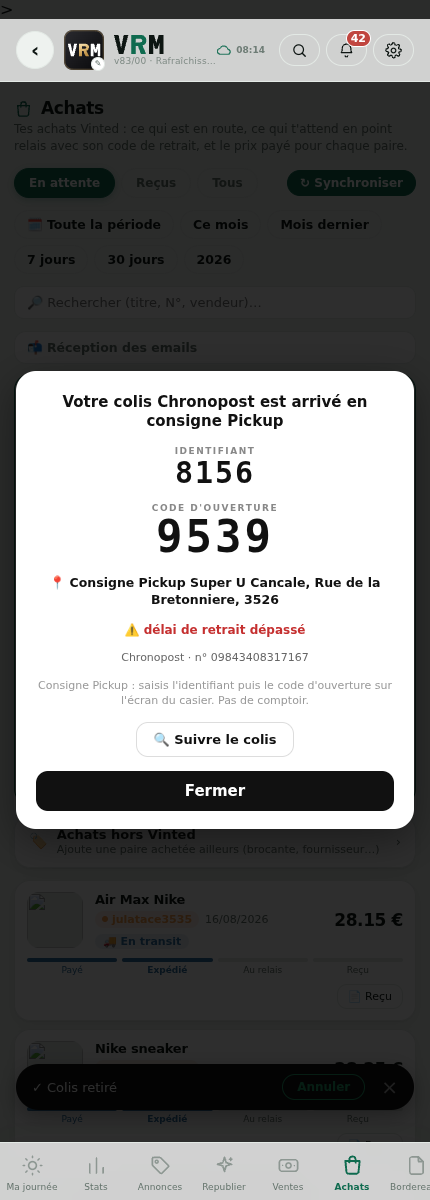
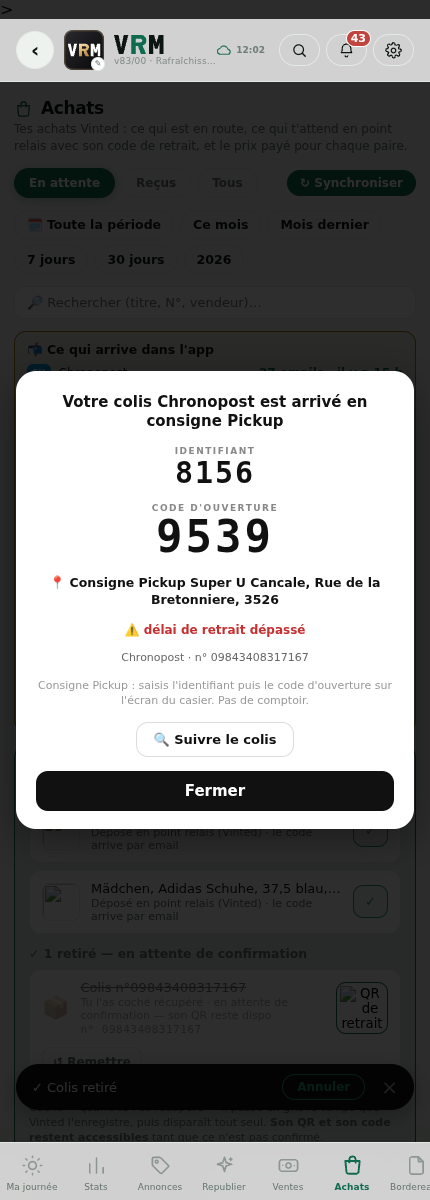
Reception : par transporteur ET par compte + saisie en serie des prix d'achat (#47)
CODES 9195 / 6121 — cherches dans les 109 lignes de suivi, les 444 emails
encore en quarantaine (recherche brute dans le JSON entier) et les 26 emails
non compris : ABSENTS. Ces emails ne sont jamais arrives jusqu'a l'app.

Cause nommee : en croisant les 8 comptes Vinted avec les emails recus, DEUX
comptes n'en recoivent AUCUN — tomj606 et angeled92 — alors qu'angeled92 a 4
annonces en ligne et 91 € en attente. Ses codes de retrait ne peuvent donc pas
etre dans l'app.

- Panneau « Ce qui arrive dans l'app » (onglet Achats, ouvert par defaut) :
  une ligne par transporteur avec Chronopost / Mondial Relay / Vinted Go
  TOUJOURS affiches meme a zero (nb de colis a retirer + dernier email), une
  ligne par compte Vinted avec ses emails, et en rouge ceux qui ne recoivent
  rien. Plus le compte des emails non classes.
- Saisie en serie des prix d'achat : 0 prix sur 210 paires, donc le benefice
  tourne avec un cout de zero sur 231 ventes et 6717 € de CA. Une liste, un
  champ par ligne, Entree passe a la suivante (ChampSaisie.apresEntree), paires
  vendues au CA decroissant en tete. Acces depuis l'alerte de l'ecran Ventes et
  depuis ... Outils sur Annonces. Aucune saisie automatique.

Claude-Session: https://claude.ai/code/session_01AfHmUFZchqY1xjBjxToU69

diff --git a/src/App.jsx b/src/App.jsx
@@ -1065,6 +1065,29 @@ const reclassifyTrack = (d) => {
 // c'était pendant que Julien attendait ses codes Chronopost. Le serveur les
 // conserve désormais (`email_inconnu_*`) ; ici on lit UNIQUEMENT des scalaires
 // (le corps brut ne part jamais au chargement d'un écran — égress, §34).
+// ⚠ « JE VEUX QUE L'APP REGARDE LES COMPTES CONNECTÉS ET LES ADRESSES MAIL
+// CONNECTÉES POUR VOIR S'IL EN MANQUE » (Julien, 23 août).
+// Mesuré ce jour-là : 8 comptes Vinted reliés, mais **2 ne reçoivent AUCUN
+// email** (`tomj606`, `angeled92`) — alors qu'`angeled92` a 4 annonces en ligne
+// et 91 € en attente. Ses emails de colis (donc ses codes de retrait) n'arrivent
+// jamais jusqu'à l'app. C'est exactement le trou qui explique les codes
+// introuvables : la boîte de ce compte ne transfère pas.
+// Lecture SCALAIRE uniquement (compte + date), jamais le corps (§34).
+const fetchEmailsParCompte = async () => {
+  const out = {};
+  try {
+    for (const f of ['email_track_', 'email_sale_', 'email_bord_', 'email_achat_', 'email_final_', 'email_offer_']) {
+      const r = await fetch(`${SUPABASE_URL}/rest/v1/app_data?id=like.${f}*&select=acc:data->>account,at:data->>receivedAt&limit=1000`, { headers: sbAuth() });
+      if (!r.ok) continue;
+      for (const row of await r.json()) {
+        const a = String(row.acc || '').trim(); if (!a) continue;
+        const e = (out[a] = out[a] || { n: 0, last: '' });
+        e.n += 1; if (String(row.at || '') > e.last) e.last = String(row.at || '');
+      }
+    }
+  } catch (_) { /* réseau : on rend ce qu'on a */ }
+  return out;
+};
 const fetchEmailsIncompris = async () => {
   try {
     const r = await fetch(`${SUPABASE_URL}/rest/v1/app_data?id=like.email_inconnu_*&select=id,subject:data->>subject,from:data->>from,forme:data->>forme,raison:data->>raison,at:data->>receivedAt&limit=200`, { headers: sbAuth() });
@@ -2942,7 +2965,7 @@ function Input({label,...p}) {
    pas dedans, il suit la donnée (numéro posé automatiquement, prix repris
    d'un achat relié…). `onCommit` n'est appelé QUE si la valeur a changé —
    sinon entrer puis sortir d'un champ prix effacerait l'achat relié. */
-function ChampSaisie({ value, onCommit, style, ...p }) {
+function ChampSaisie({ value, onCommit, apresEntree, style, ...p }) {
   const [txt, setTxt] = useState(value == null ? '' : String(value));
   const [actif, setActif] = useState(false);
   const avantRef = useRef(value == null ? '' : String(value));
@@ -2960,7 +2983,9 @@ function ChampSaisie({ value, onCommit, style, ...p }) {
       onChange={ev => setTxt(ev.target.value)}
       onBlur={ev => sortir(ev.target.value)}
       onKeyDown={ev => {
-        if (ev.key === 'Enter') { ev.preventDefault(); ev.currentTarget.blur(); }
+        // Entrée valide ET, en saisie en série, passe au champ suivant : c'est
+        // ce qui rend une longue liste de prix d'achat tenable au clavier.
+        if (ev.key === 'Enter') { ev.preventDefault(); ev.currentTarget.blur(); if (apresEntree) setTimeout(apresEntree, 0); }
         else if (ev.key === 'Escape') { annuleRef.current = true; ev.currentTarget.blur(); }
       }}
     />
@@ -3378,9 +3403,30 @@ const libellePeriode = (p) => {
    23 août (4 emails Chronopost annoncés, un seul reçu, et illisible).
    Ne coûte AUCUNE requête pour les dates (elles viennent des suivis déjà
    chargés) ; une seule lecture scalaire pour les emails non compris. */
-function ReceptionEmails({ tracking }) {
+/* ── RÉCEPTION : LES TRANSPORTEURS ET LES COMPTES ─────────────────────────
+   Julien, 23 août : « je veux qu'il n'y ait aucune erreur du côté Chronopost,
+   Mondial Relay, Vinted GO » puis « je veux que l'app regarde les comptes
+   connectés et les adresses mail connectées pour voir s'il en manque, et dire
+   lesquels manquent ».
+   Deux erreurs possibles, et aucune n'est dans le code :
+    · un TRANSPORTEUR dont les emails n'arrivent plus ;
+    · un COMPTE Vinted dont la boîte ne transfère pas — mesuré ce jour-là :
+      `tomj606` et `angeled92` n'ont JAMAIS reçu le moindre email, alors
+      qu'`angeled92` a 4 annonces en ligne et 91 € en attente. Ses codes de
+      retrait ne pouvaient donc pas arriver.
+   ⚠ Ouvert par défaut, et les trois transporteurs nommés sont TOUJOURS
+   affichés même à zéro : « aucun email reçu » est l'information utile.
+   Aucune requête pour les dates des colis (elles viennent des suivis déjà
+   chargés) ; deux lectures scalaires pour le reste (§34). */
+function ReceptionEmails({ tracking, comptes, colisParTransporteur }) {
   const [incompris, setIncompris] = useState(null);
-  useEffect(() => { let mort = false; fetchEmailsIncompris().then(r => { if (!mort) setIncompris(r); }); return () => { mort = true; }; }, []);
+  const [parCompte, setParCompte] = useState(null);
+  useEffect(() => {
+    let mort = false;
+    fetchEmailsIncompris().then(r => { if (!mort) setIncompris(r); });
+    fetchEmailsParCompte().then(r => { if (!mort) setParCompte(r); });
+    return () => { mort = true; };
+  }, []);
   const lignes = useMemo(() => {
     const m = {};
     for (const t of (tracking || [])) {
@@ -3390,8 +3436,6 @@ function ReceptionEmails({ tracking }) {
       if (!m[k] || d > m[k].ts) m[k] = { ts: d, n: (m[k] ? m[k].n : 0) + 1 };
       else m[k].n += 1;
     }
-    // Les trois transporteurs qu'il nomme sont TOUJOURS listés, même à zéro :
-    // « aucun email reçu » est justement l'information à voir.
     for (const k of ['chronopost', 'mondialrelay', 'vinted']) if (!m[k]) m[k] = { ts: 0, n: 0 };
     return Object.entries(m).sort((a, b) => b[1].ts - a[1].ts);
   }, [tracking]);
@@ -3401,37 +3445,74 @@ function ReceptionEmails({ tracking }) {
     return h < 1 ? "à l'instant" : h < 24 ? `il y a ${Math.round(h)} h` : `il y a ${Math.round(h / 24)} j`;
   };
   const nInc = incompris ? incompris.length : 0;
+  // Un compte sans le moindre email : sa boîte ne transfère pas vers l'app.
+  const muets = useMemo(() => {
+    if (!parCompte || !comptes || !comptes.length) return [];
+    return comptes.filter(a => { const l = String(a.login || '').trim(); return l && !parCompte[l]; });
+  }, [parCompte, comptes]);
+  const ligne = { display: 'flex', alignItems: 'center', gap: 8, fontSize: 12 };
   return (
-    <details style={{border:`1px solid ${nInc?C.warn:C.border}`,background:nInc?`${C.warn}0e`:C.card,borderRadius:12,padding:'8px 12px',marginBottom:10}}>
-      <summary style={{cursor:'pointer',fontSize:12.5,fontWeight:600,color:nInc?C.warn:C.muted,listStyle:'none'}}>
-        📬 Réception des emails{nInc>0?` — ${nInc} non compris`:''}
-      </summary>
-      <div style={{marginTop:8,display:'flex',flexDirection:'column',gap:5}}>
-        {lignes.map(([k, v]) => (
-          <div key={k} style={{display:'flex',alignItems:'center',gap:8,fontSize:12}}>
-            <CarrierBadge carrier={k} size={18}/>
-            <div style={{flex:1,minWidth:0,color:C.text,whiteSpace:'nowrap',overflow:'hidden',textOverflow:'ellipsis'}}>{carrierName(k)}</div>
-            <div style={{color:v.ts?(Date.now()-v.ts<3*86400000?C.ok||C.accent:C.warn):C.danger,fontWeight:600,flexShrink:0}}>
-              {v.ts ? `${v.n} email${v.n>1?'s':''} · dernier ${age(v.ts)}` : 'aucun email reçu'}
-            </div>
-          </div>
-        ))}
-        {nInc>0 && (
-          <div style={{marginTop:6,paddingTop:6,borderTop:`1px solid ${C.border}`}}>
-            <div style={{fontSize:12,fontWeight:700,color:C.warn,marginBottom:4}}>⚠ {nInc} email{nInc>1?'s':''} reçu{nInc>1?'s':''} que l'app n'a pas su lire</div>
-            {incompris.slice(0,6).map(e=>(
-              <div key={e.id} style={{fontSize:11,color:C.muted,whiteSpace:'nowrap',overflow:'hidden',textOverflow:'ellipsis'}}>
-                {(e.at||'').slice(0,16).replace('T',' ')} · {e.subject || '(sans sujet)'} · {e.from || '(sans expéditeur)'} · forme « {e.forme||'?'} »
+    <div style={{border:`1px solid ${muets.length||nInc?C.warn:C.border}`,background:muets.length||nInc?`${C.warn}0c`:C.card,borderRadius:12,padding:'10px 12px',marginBottom:10}}>
+      <div style={{fontSize:12.5,fontWeight:700,color:C.text,marginBottom:7}}>📬 Ce qui arrive dans l'app</div>
+      <div style={{display:'flex',flexDirection:'column',gap:5}}>
+        {lignes.map(([k, v]) => {
+          const nColis = (colisParTransporteur && colisParTransporteur[k]) || 0;
+          return (
+            <div key={k} style={ligne}>
+              <CarrierBadge carrier={k} size={18}/>
+              <div style={{flex:1,minWidth:0,color:C.text,whiteSpace:'nowrap',overflow:'hidden',textOverflow:'ellipsis'}}>
+                {carrierName(k)}
+                {nColis>0 && <b style={{color:C.accent}}> · {nColis} colis à retirer</b>}
               </div>
-            ))}
-            <div style={{fontSize:11,color:C.muted,marginTop:5}}>Ils sont conservés entiers : rien n'est perdu, on peut les relire pour comprendre ce qui manque.</div>
-          </div>
-        )}
-        <div style={{fontSize:11,color:C.muted,marginTop:4}}>
-          Un transporteur à « aucun email reçu » ne veut pas dire qu'il n'y a pas de colis : ça veut dire que ses emails n'arrivent pas jusqu'à l'app (boîte qui ne transfère plus).
-        </div>
+              <div style={{color:v.ts?(Date.now()-v.ts<3*86400000?(C.ok||C.accent):C.warn):C.danger,fontWeight:600,flexShrink:0,textAlign:'right'}}>
+                {v.ts ? `${v.n} email${v.n>1?'s':''} · ${age(v.ts)}` : 'aucun email reçu'}
+              </div>
+            </div>
+          );
+        })}
       </div>
-    </details>
+      {/* ── LES COMPTES : lesquels ne reçoivent RIEN ─────────────────────── */}
+      {comptes && comptes.length > 0 && (
+        <div style={{marginTop:9,paddingTop:8,borderTop:`1px solid ${C.border}`}}>
+          <div style={{fontSize:11.5,fontWeight:700,color:C.text,marginBottom:5}}>👤 Tes comptes Vinted et leurs emails</div>
+          {parCompte === null && <div style={{fontSize:11,color:C.muted}}>lecture en cours…</div>}
+          {parCompte !== null && (
+            <div style={{display:'flex',flexDirection:'column',gap:4}}>
+              {comptes.map(a => {
+                const l = String(a.login || '').trim() || String(a.vinted_user_id || '');
+                const e = parCompte[String(a.login || '').trim()] || null;
+                const ts = e && e.last ? Date.parse(e.last) : NaN;
+                return (
+                  <div key={String(a.vinted_user_id)} style={{...ligne,fontSize:11.5}}>
+                    <div style={{flex:1,minWidth:0,color:C.text,whiteSpace:'nowrap',overflow:'hidden',textOverflow:'ellipsis'}}>{l}</div>
+                    <div style={{flexShrink:0,fontWeight:600,color:e?(isNaN(ts)?C.muted:(Date.now()-ts<7*86400000?(C.ok||C.accent):C.warn)):C.danger}}>
+                      {e ? `${e.n} email${e.n>1?'s':''}${isNaN(ts)?'':' · '+age(ts)}` : '⚠ aucun email'}
+                    </div>
+                  </div>
+                );
+              })}
+            </div>
+          )}
+          {muets.length>0 && (
+            <div style={{fontSize:11,color:C.warn,marginTop:6,lineHeight:1.45}}>
+              <b>{muets.length} compte{muets.length>1?'s':''} ne reçoi{muets.length>1?'vent':'t'} aucun email</b> ({muets.map(a=>a.login||a.vinted_user_id).join(', ')}).
+              {muets.length>1?'Leurs':'Ses'} emails Vinted et {muets.length>1?'leurs':'ses'} <b>codes de retrait</b> n'arrivent donc jamais ici : il faut faire suivre {muets.length>1?'ces boîtes':'la boîte de ce compte'} vers l'adresse de l'app.
+            </div>
+          )}
+        </div>
+      )}
+      {nInc>0 && (
+        <div style={{marginTop:8,paddingTop:8,borderTop:`1px solid ${C.border}`}}>
+          <div style={{fontSize:11.5,fontWeight:700,color:C.warn,marginBottom:4}}>⚠ {nInc} email{nInc>1?'s':''} reçu{nInc>1?'s':''} que l'app n'a pas su classer</div>
+          {incompris.slice(0,4).map(e=>(
+            <div key={e.id} style={{fontSize:10.5,color:C.muted,whiteSpace:'nowrap',overflow:'hidden',textOverflow:'ellipsis'}}>
+              {(e.at||'').slice(0,16).replace('T',' ')} · {e.subject || '(sans sujet)'}
+            </div>
+          ))}
+          <div style={{fontSize:10.5,color:C.muted,marginTop:4}}>Ils sont conservés entiers — rien n'est perdu.</div>
+        </div>
+      )}
+    </div>
   );
 }
 function PeriodePicker({ value, onChange }) {
@@ -12671,6 +12752,56 @@ function Comptabilite({ accounts, only, garageGrid, onLocate, onStore, onNav, on
   const copyText = (txt, key) => { try { navigator.clipboard.writeText(txt); setCopied(key); setTimeout(()=>setCopied(''),1500); } catch(_){} };
 
   // ── Rapport comptable (#3) ─────────────────────────────────────────
+  // ── SAISIE EN SÉRIE DES PRIX D'ACHAT ───────────────────────────────────────
+  // ⚠ LE défaut de données le plus coûteux, mesuré encore le 23 août :
+  // **0 prix d'achat sur 210 paires**, donc le bénéfice, la marge, la « meilleure
+  // marque » et le rapport comptable tournent avec un COÛT DE ZÉRO — sur 231
+  // ventes finalisées et 6 717 € de CA. Julien a dit qu'il les remplirait à la
+  // main ; ce qui l'en empêche, c'est le geste : ouvrir chaque carte, viser un
+  // petit champ, recommencer 210 fois.
+  // Ici : une seule liste, un champ par ligne, Entrée passe au suivant. Les
+  // paires qui pèsent le plus sur la compta (celles réellement vendues, au CA le
+  // plus élevé) sont en tête — vingt minutes de frappe redressent l'essentiel.
+  // ⚠ Aucune saisie automatique : c'est lui qui tape, ou qui tape sur une
+  // suggestion qu'il voit (règle tenue depuis §22).
+  const [fillBuyOpen, setFillBuyOpen] = useState(false);
+  const fillBuyRows = useMemo(() => {
+    // Ce que chaque paire pèse dans la compta : ses ventes, résolues par
+    // IDENTITÉ (id d'annonce Vinted, sinon photo) — jamais par titre (§5.34).
+    const impact = {};
+    for (const o of (sales.items || [])) {
+      if (classifyOrderStatus(o.status) === 'cancelled') continue;
+      const k = identiteAnnonce(o); if (!k) continue;
+      const p = (o.price && o.price.amount != null) ? Number(o.price.amount) || 0 : 0;
+      const e = (impact[k] = impact[k] || { n: 0, ca: 0 });
+      e.n += 1; e.ca += p;
+    }
+    const out = [];
+    for (const k in numeros) {
+      const e = numeros[k]; if (!e) continue;
+      if (String(e.buyPrice || '').trim()) continue;          // déjà renseigné
+      const num = String(e.numero || '').trim(); if (!num) continue;
+      const im = impact[k] || { n: 0, ca: 0 };
+      out.push({ key: k, e, numero: num, enLigne: onlineAnnonceIds.has(String(k)), nVentes: im.n, ca: im.ca });
+    }
+    // Les paires VENDUES d'abord, au CA décroissant : c'est là que le coût
+    // manquant fausse vraiment les chiffres. Les annonces en ligne ensuite.
+    out.sort((a, b) => (b.ca - a.ca) || (Number(b.enLigne) - Number(a.enLigne)) || (parseInt(a.numero, 10) - parseInt(b.numero, 10)));
+    return out;
+    // eslint-disable-next-line react-hooks/exhaustive-deps
+  }, [numeros, sales.items, onlineAnnonceIds, txnItem, txnLink]);
+  const setBuyForKey = (key, val) => {
+    setNumeros(prev => {
+      const u = { ...prev };
+      const cur = u[key] || {};
+      const v = String(val || '').trim();
+      // Saisir un prix à la main efface le lien vers un achat (sinon la carte
+      // afficherait un achat qui n'a plus rien à voir avec le chiffre saisi).
+      u[key] = { ...cur, buyPrice: v, buyFromId: null, buyFrom: null };
+      save('vinted_annonce_numeros', u);
+      return u;
+    });
+  };
   const [showReport, setShowReport] = useState(false);
   const [reportMonth, setReportMonth] = useState(() => { const d=new Date(); return `${d.getFullYear()}-${String(d.getMonth()+1).padStart(2,'0')}`; });
   const ymOf = (dstr) => { if(!dstr) return null; const d=new Date(dstr); if(isNaN(d)) return null; return `${d.getFullYear()}-${String(d.getMonth()+1).padStart(2,'0')}`; };
@@ -13763,7 +13894,8 @@ function Comptabilite({ accounts, only, garageGrid, onLocate, onStore, onNav, on
               <div style={{fontSize:13,fontWeight:700,color:C.warn}}>💸 {totals.sansCout} vente{totals.sansCout>1?'s':''} finalisée{totals.sansCout>1?'s':''} sans prix d'achat</div>
               <div style={{fontSize:11,color:C.text,marginTop:2,lineHeight:1.4}}>Ton bénéfice net et ton rapport comptable sont <b>sous-estimés</b> tant que tu ne renseignes pas leur coût. Saisis-le dans le champ « achat » de chaque vente.</div>
             </div>
-            <button type="button" onClick={()=>setVFilter('sanscout')} style={{flexShrink:0,border:`1px solid ${C.warn}`,background:vFilter==='sanscout'?C.warn:'transparent',color:vFilter==='sanscout'?'#fff':C.warn,borderRadius:999,padding:'6px 13px',fontSize:12,fontWeight:600,cursor:'pointer',fontFamily:'inherit'}}>Les compléter →</button>
+            <button type="button" onClick={()=>setFillBuyOpen(true)} title="Une liste, un champ par ligne, Entrée passe à la suivante" style={{flexShrink:0,border:'none',background:C.warn,color:'#fff',borderRadius:999,padding:'6px 13px',fontSize:12,fontWeight:600,cursor:'pointer',fontFamily:'inherit'}}>💶 Tout compléter d'un coup</button>
+            <button type="button" onClick={()=>setVFilter('sanscout')} style={{flexShrink:0,border:`1px solid ${C.warn}`,background:vFilter==='sanscout'?C.warn:'transparent',color:vFilter==='sanscout'?'#fff':C.warn,borderRadius:999,padding:'6px 13px',fontSize:12,fontWeight:600,cursor:'pointer',fontFamily:'inherit'}}>Voir la liste</button>
           </div>
         )}
         <div style={{display:'flex',gap:6,marginBottom:12,flexWrap:'wrap',alignItems:'center'}}>
@@ -13954,7 +14086,11 @@ function Comptabilite({ accounts, only, garageGrid, onLocate, onStore, onNav, on
           <input value={ordSearch} onChange={e=>setOrdSearch(e.target.value)} placeholder="🔎 Rechercher (titre, N°, vendeur)…"
             style={{width:'100%',boxSizing:'border-box',border:`1px solid ${C.border}`,borderRadius:10,padding:'8px 12px',fontSize:13,background:C.card,color:C.text,outline:'none',marginBottom:12}}/>
         )}
-        <ReceptionEmails tracking={tracking}/>
+        {/* Compte des colis à retirer PAR TRANSPORTEUR, pour que Chronopost,
+            Mondial Relay et Vinted Go aient chacun leur ligne sur l'onglet
+            Achats — même quand ils n'ont rien (demande de Julien). */}
+        <ReceptionEmails tracking={tracking} comptes={accounts}
+          colisParTransporteur={(()=>{ const m={}; for(const t of (pickupUnion.emailList||[])){ const k=carrierKey(t&&t.carrier)||'autre'; m[k]=(m[k]||0)+1; } return m; })()}/>
         {/* À RETIRER — liste simple façon appli de colis : groupée par point relais,
             avec LE CODE de retrait en gros (c'est ça qu'on donne au comptoir) et un
             « Y aller ». Source = emails transporteur (qui portent le code), et non
@@ -15052,6 +15188,7 @@ function Comptabilite({ accounts, only, garageGrid, onLocate, onStore, onNav, on
                   {[
                     {k:'lot', icon:'🧮', lab:'Répartir un lot', desc:"Ventiler le prix d'un achat groupé", on:()=>{ setAnnToolsOpen(false); setLotSel(new Set()); setLotTotal(''); setLotSearch(''); setLotMode('equal'); setLotOpen(true); }},
                     {k:'aud', icon:'🔎', lab:'Audit du stock', desc:'Retrouver les paires mal rangées', on:()=>{ setAnnToolsOpen(false); setAuditOpen(true); }},
+                    {k:'fillbuy', icon:'💶', lab:"Compléter les prix d'achat", desc:`${fillBuyRows.length} paire${fillBuyRows.length>1?'s':''} sans coût — le bénéfice est faux sans eux`, on:()=>{ setAnnToolsOpen(false); setFillBuyOpen(true); }},
                     /* ⚠ « Renuméroter à la suite » A ÉTÉ RETIRÉ DU MENU (23 août 2026).
                        C'est le seul outil qui RÉATTRIBUE des numéros en masse — donc
                        exactement ce que Julien interdit maintenant qu'il les écrit sur
@@ -16153,6 +16290,63 @@ function Comptabilite({ accounts, only, garageGrid, onLocate, onStore, onNav, on
                 <div style={{fontSize:12,color:C.muted}}>{treasury.nSpent} achat{treasury.nSpent>1?'s':''} (Vinted + hors Vinted){buys.items===null?' · chargement…':''}</div>
               </div>
               <div style={{fontSize:11,color:C.muted,lineHeight:1.5}}>Basé sur le statut Vinted de chaque commande (fiable, se met à jour tout seul).</div>
+            </div>
+          </div>
+        </div>
+      )}
+      {/* ── SAISIE EN SÉRIE DES PRIX D'ACHAT ────────────────────────────────
+          Une liste, un champ par ligne, Entrée passe au suivant. Les paires
+          vendues au CA le plus élevé d'abord : ce sont elles qui faussent le
+          plus la compta tant que leur coût manque. */}
+      {fillBuyOpen && (
+        <div onClick={()=>setFillBuyOpen(false)} style={{position:'fixed',inset:0,background:'rgba(0,0,0,0.5)',zIndex:1000,display:'flex',alignItems:'flex-end',justifyContent:'center'}} data-noswipe="1">
+          <div onClick={e=>e.stopPropagation()} style={{background:C.bg,width:'100%',maxWidth:560,maxHeight:'90vh',borderRadius:'16px 16px 0 0',display:'flex',flexDirection:'column',overflow:'hidden'}}>
+            <div style={{padding:'12px 16px',borderBottom:`1px solid ${C.border}`,flexShrink:0}}>
+              <div style={{display:'flex',alignItems:'center',gap:10}}>
+                <div style={{flex:1,minWidth:0}}>
+                  <div style={{fontSize:17,fontWeight:600,color:C.text,letterSpacing:'-0.02em'}}>Prix d'achat à compléter</div>
+                  <div style={{fontSize:11.5,color:C.muted,marginTop:2}}>
+                    {fillBuyRows.length} paire{fillBuyRows.length>1?'s':''} sans coût · tape le prix, <b>Entrée</b> passe à la suivante
+                  </div>
+                </div>
+                <button type="button" onClick={()=>setFillBuyOpen(false)} aria-label="Fermer" style={{flexShrink:0,border:'none',background:'transparent',color:C.muted,cursor:'pointer',padding:4}}><Icon name="close" size={18}/></button>
+              </div>
+              {fillBuyRows.length>0 && (
+                <div style={{fontSize:11,color:C.warn,marginTop:6,lineHeight:1.4}}>
+                  Tant qu'un coût manque, la vente compte comme <b>100 % de marge</b> : ton bénéfice et ton rapport comptable sont sous-estimés.
+                </div>
+              )}
+            </div>
+            <div style={{overflowY:'auto',padding:'10px 12px 16px'}}>
+              {fillBuyRows.length===0 && (
+                <div style={{textAlign:'center',padding:'28px 12px',color:C.muted,fontSize:13}}>🎉 Toutes tes paires ont un prix d'achat.</div>
+              )}
+              {fillBuyRows.slice(0,300).map((r,i)=>(
+                <div key={r.key} style={{display:'flex',gap:10,alignItems:'center',background:C.card,border:`1px solid ${C.border}`,borderRadius:12,padding:'8px 10px',marginBottom:6}}>
+                  <div style={{width:40,height:40,borderRadius:10,background:C.border,flexShrink:0,overflow:'hidden',display:'flex',alignItems:'center',justifyContent:'center'}}>
+                    {r.e.photo?<img src={r.e.photo} alt="" loading="lazy" decoding="async" style={{width:'100%',height:'100%',objectFit:'cover'}}/>:<span style={{fontSize:16}}>👟</span>}
+                  </div>
+                  <div style={{flex:'1 1 130px',minWidth:0}}>
+                    <div style={{fontSize:12.5,fontWeight:600,color:C.text,whiteSpace:'nowrap',overflow:'hidden',textOverflow:'ellipsis'}}>
+                      <span style={{color:C.accent,fontWeight:700}}>N°{r.numero}</span> {r.e.title||'(sans titre)'}
+                    </div>
+                    <div style={{fontSize:11,color:C.muted,marginTop:1,whiteSpace:'nowrap',overflow:'hidden',textOverflow:'ellipsis'}}>
+                      {/* Montants au format français (virgule) : `eur` ne fait que
+                          convertir en nombre, il ne met pas en forme. */}
+                      {r.nVentes>0 ? `vendue ${r.nVentes>1?r.nVentes+' fois · ':''}${r.ca.toFixed(2).replace('.',',')} €` : r.enLigne ? `en ligne${r.e.price!=null?` · ${eur(r.e.price).toFixed(2).replace('.',',')} €`:''}` : 'plus en ligne'}
+                    </div>
+                  </div>
+                  <div style={{flexShrink:0,display:'flex',alignItems:'center',gap:3,border:`1px solid ${C.border}`,borderRadius:10,padding:'2px 6px',background:C.bg,width:96}}>
+                    <ChampSaisie value="" data-fillbuy={i}
+                      onCommit={v=>setBuyForKey(r.key,v)}
+                      apresEntree={()=>{ const n=document.querySelector(`[data-fillbuy="${i+1}"]`); if(n) n.focus(); }}
+                      placeholder="achat" inputMode="decimal"
+                      style={{width:'100%',minWidth:0,border:'none',background:'transparent',color:C.text,fontSize:13,fontWeight:500,outline:'none'}}/>
+                    <span style={{fontSize:11,color:C.muted}}>€</span>
+                  </div>
+                </div>
+              ))}
+              {fillBuyRows.length>300 && <div style={{fontSize:11,color:C.muted,textAlign:'center',padding:'8px'}}>… et {fillBuyRows.length-300} autres (elles apparaîtront au fur et à mesure).</div>}
             </div>
           </div>
         </div>
